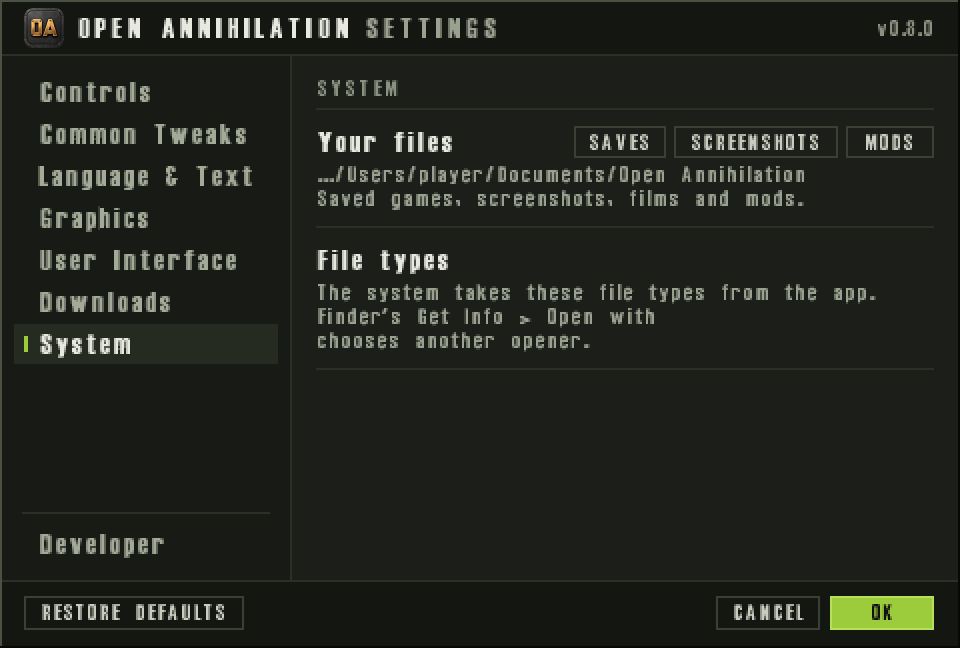
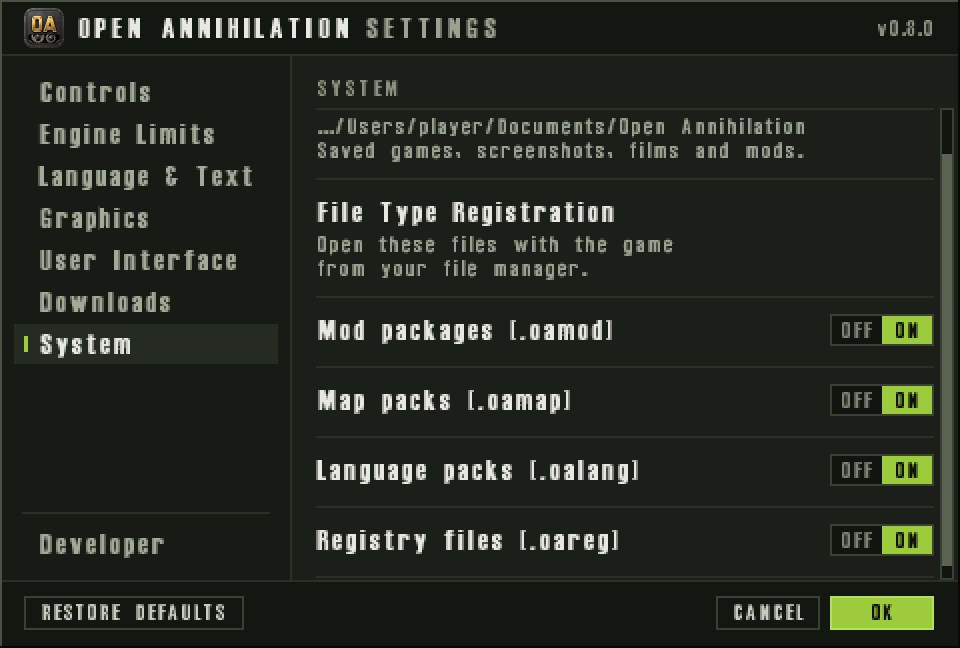
(fix) Set each macOS file-type opener with Launch Services

diff --git a/src/platform/file-types/src/file_types_mac.mm b/src/platform/file-types/src/file_types_mac.mm
@@ -2,24 +2,26 @@
 // SPDX-License-Identifier: GPL-3.0-only
 
 // macOS: whether this copy is the default opener of each file type, and making it so, or
-// handing the type back. macOS 12 and later names an application by its file URL. Before
-// that, the same questions take a bundle identifier. The bundle's declaration is left as
-// it is.
+// handing the type back. Both questions use Launch Services on every version. The calls are
+// deprecated and still present; this file is the only place that warning is accepted. The
+// bundle's declaration is left as it is. After a change the opener is read back, and a
+// change the read does not show is reported.
 
 #include "apple_handlers.hpp"
 
-#import <AppKit/AppKit.h>
 #import <CoreServices/CoreServices.h>
-#import <UniformTypeIdentifiers/UniformTypeIdentifiers.h>
+#import <Foundation/Foundation.h>
 
-#include <chrono>
 #include <string>
+
+// LSCopyDefaultRoleHandlerForContentType and LSSetDefaultRoleHandlerForContentType are
+// deprecated from macOS 12 and are the calls that answer at once. The replacement that
+// takes a completion handler does not finish when the opener would change.
+#pragma clang diagnostic push
+#pragma clang diagnostic ignored "-Wdeprecated-declarations"
 
 namespace oa::platform::file_types {
 namespace {
-
-/// How long a default-opener change may take to answer.
-constexpr std::chrono::seconds kAnswerLimit{5};
 
 /// A content type as Foundation holds a string that may not end in a zero.
 NSString* text_of(std::string_view text) {
@@ -36,118 +38,44 @@ std::string utf8_of(NSString* text) {
     return bytes == nullptr ? std::string{} : std::string(bytes);
 }
 
-/// The bundle identifier of the program at `url`.
-std::string bundle_id_of(NSURL* url) {
-    if (url == nil)
-        return {};
-    return utf8_of([NSBundle bundleWithURL:url].bundleIdentifier);
+/// Reports whether two bundle identifiers name the same program, ignoring ASCII case.
+bool same_bundle(std::string_view left, std::string_view right) noexcept {
+    if (left.size() != right.size())
+        return false;
+    const auto lower = [](unsigned char letter) noexcept {
+        return letter >= 'A' && letter <= 'Z' ? static_cast<char>(letter - 'A' + 'a')
+                                              : static_cast<char>(letter);
+    };
+    for (std::size_t index = 0; index < left.size(); ++index)
+        if (lower(static_cast<unsigned char>(left[index])) !=
+            lower(static_cast<unsigned char>(right[index])))
+            return false;
+    return true;
 }
 
-/// The default opener of `content_type`, on macOS 12 and later.
-API_AVAILABLE(macos(12.0))
-
-Handler opener_now(std::string_view content_type, std::string& failure) {
-    UTType* type = [UTType typeWithIdentifier:text_of(content_type)];
-    if (type == nil) {
-        failure = "unknown content type " + std::string(content_type);
-        return {};
-    }
-    NSURL* url = [[NSWorkspace sharedWorkspace] URLForApplicationToOpenContentType:type];
-    if (url == nil)
-        return {};
-    Handler handler;
-    handler.bundle_id = bundle_id_of(url);
-    handler.application_url = utf8_of(url.absoluteString);
-    return handler;
-}
-
-/// The default opener of `content_type`, before macOS 12.
-Handler opener_before(std::string_view content_type, std::string& failure) {
+/// The default opener of `content_type`. An empty handler with an empty `failure` means
+/// nothing is the opener.
+Handler opener_of(std::string_view content_type, std::string& failure) {
     NSString* identifier = text_of(content_type);
     if (identifier == nil) {
         failure = "unknown content type " + std::string(content_type);
         return {};
     }
-    Handler handler;
-#pragma clang diagnostic push
-#pragma clang diagnostic ignored "-Wdeprecated-declarations"
     CFStringRef owner =
         LSCopyDefaultRoleHandlerForContentType((__bridge CFStringRef)identifier, kLSRolesAll);
-#pragma clang diagnostic pop
     if (owner == nullptr)
         return {};
+    Handler handler;
     handler.bundle_id = utf8_of(CFBridgingRelease(owner));
     return handler;
 }
 
-/// Waits for `gate`, pumping the run loop when this is the main thread, so a completion
-/// that comes back there can run. Sets `failure` when the wait runs out.
-bool wait_for(dispatch_semaphore_t gate, std::string& failure) {
-    const auto deadline = std::chrono::steady_clock::now() + kAnswerLimit;
-    if ([NSThread isMainThread]) {
-        while (dispatch_semaphore_wait(gate, DISPATCH_TIME_NOW) != 0) {
-            if (std::chrono::steady_clock::now() >= deadline) {
-                failure = "the system did not answer";
-                return false;
-            }
-            [[NSRunLoop currentRunLoop] runMode:NSDefaultRunLoopMode
-                                     beforeDate:[NSDate dateWithTimeIntervalSinceNow:0.02]];
-        }
-        return true;
-    }
-    const auto left = deadline - std::chrono::steady_clock::now();
-    const auto nanoseconds = std::chrono::duration_cast<std::chrono::nanoseconds>(left).count();
-    if (nanoseconds <= 0 ||
-        dispatch_semaphore_wait(gate, dispatch_time(DISPATCH_TIME_NOW, nanoseconds)) != 0) {
-        failure = "the system did not answer";
-        return false;
-    }
-    return true;
+Handler read_handler(void* /*context*/, std::string_view content_type, std::string& failure) {
+    return opener_of(content_type, failure);
 }
 
-/// Makes `handler` the default opener of `content_type` on macOS 12 and later.
-API_AVAILABLE(macos(12.0))
-
-bool set_opener_now(std::string_view content_type, const Handler& handler, std::string& failure) {
-    UTType* type = [UTType typeWithIdentifier:text_of(content_type)];
-    if (type == nil) {
-        failure = "unknown content type " + std::string(content_type);
-        return false;
-    }
-    NSURL* url = nil;
-    if (!handler.application_url.empty())
-        url = [NSURL URLWithString:text_of(handler.application_url)];
-    if (url == nil && !handler.bundle_id.empty()) {
-        url = [[NSWorkspace sharedWorkspace]
-            URLForApplicationWithBundleIdentifier:text_of(handler.bundle_id)];
-    }
-    if (url == nil) {
-        failure = "no program opens " + std::string(content_type);
-        return false;
-    }
-    __block NSString* message = nil;
-    dispatch_semaphore_t gate = dispatch_semaphore_create(0);
-    [[NSWorkspace sharedWorkspace] setDefaultApplicationAtURL:url
-                                            toOpenContentType:type
-                                            completionHandler:^(NSError* problem) {
-                                                if (problem != nil)
-                                                    message = problem.localizedDescription;
-                                                dispatch_semaphore_signal(gate);
-                                            }];
-    if (!wait_for(gate, failure))
-        return false;
-    if (message != nil) {
-        failure = utf8_of(message);
-        if (failure.empty())
-            failure = "the system refused";
-        return false;
-    }
-    return true;
-}
-
-/// Makes `handler` the default opener of `content_type` before macOS 12.
-bool set_opener_before(
-    std::string_view content_type, const Handler& handler, std::string& failure
+bool write_handler(
+    void* /*context*/, std::string_view content_type, const Handler& handler, std::string& failure
 ) {
     if (handler.bundle_id.empty()) {
         failure = "no program opens " + std::string(content_type);
@@ -159,31 +87,23 @@ bool set_opener_before(
         failure = "unknown content type " + std::string(content_type);
         return false;
     }
-#pragma clang diagnostic push
-#pragma clang diagnostic ignored "-Wdeprecated-declarations"
     const OSStatus status = LSSetDefaultRoleHandlerForContentType(
         (__bridge CFStringRef)identifier, kLSRolesAll, (__bridge CFStringRef)owner
     );
-#pragma clang diagnostic pop
     if (status != noErr) {
         failure = "the system refused (" + std::to_string(static_cast<int>(status)) + ")";
         return false;
     }
+    // The call answers at once. The opener afterwards is what a read reports, and a set
+    // the read does not show did not take.
+    const Handler now = opener_of(content_type, failure);
+    if (!failure.empty())
+        return false;
+    if (!same_bundle(now.bundle_id, handler.bundle_id)) {
+        failure = "the change did not take";
+        return false;
+    }
     return true;
-}
-
-Handler read_handler(void* /*context*/, std::string_view content_type, std::string& failure) {
-    if (@available(macOS 12.0, *))
-        return opener_now(content_type, failure);
-    return opener_before(content_type, failure);
-}
-
-bool write_handler(
-    void* /*context*/, std::string_view content_type, const Handler& handler, std::string& failure
-) {
-    if (@available(macOS 12.0, *))
-        return set_opener_now(content_type, handler, failure);
-    return set_opener_before(content_type, handler, failure);
 }
 
 } // namespace
@@ -212,3 +132,5 @@ Handler apple_running_application() {
 }
 
 } // namespace oa::platform::file_types
+
+#pragma clang diagnostic pop

diff --git a/src/platform/file-types/tests/file_types_test.cpp b/src/platform/file-types/tests/file_types_test.cpp
@@ -865,6 +865,7 @@ struct FakeLaunchServices {
     std::map<std::string, file_types::Handler> handlers{};
     std::string fail_read{};  ///< a content type whose question fails
     std::string fail_write{}; ///< a content type whose change fails
+    bool store_writes = true; ///< a change that answers and leaves the opener as it was
     std::vector<std::string> reads{};
     std::vector<std::pair<std::string, std::string>> writes{};
 };
@@ -895,8 +896,9 @@ bool fake_write(
         failure = "sandbox";
         return false;
     }
-    fake->handlers[type] = handler;
     fake->writes.emplace_back(type, handler.bundle_id);
+    if (fake->store_writes)
+        fake->handlers[type] = handler;
     return true;
 }
 
@@ -961,9 +963,12 @@ void test_opener_changes() {
     OA_CHECK(handed.lines.size() == 2);
     OA_CHECK(handed.lines[0] == "hand back oamod to com.example.archive");
     OA_CHECK(handed.lines[1] == "hand back oareg to com.example.editor");
-    OA_CHECK(fake.reads.size() == 2);
+    // Each type asks for the opener it hands back to, then reads its own opener afterwards.
+    OA_CHECK(fake.reads.size() == 4);
     OA_CHECK(fake.reads[0] == "public.zip-archive");
-    OA_CHECK(fake.reads[1] == "public.plain-text");
+    OA_CHECK(fake.reads[1] == "net.coreprime.open-annihilation.oamod");
+    OA_CHECK(fake.reads[2] == "public.plain-text");
+    OA_CHECK(fake.reads[3] == "net.coreprime.open-annihilation.oareg");
     OA_CHECK(
         fake.handlers["net.coreprime.open-annihilation.oamod"].bundle_id == "com.example.archive"
     );
@@ -985,7 +990,9 @@ void test_opener_changes() {
         file_types::apply_opener_changes(fake_calls(fake), application, on);
     OA_CHECK(taken.changed && taken.error.empty());
     OA_CHECK(taken.lines.size() == 1 && taken.lines[0] == "open oamod");
-    OA_CHECK(fake.reads.empty());
+    // On does not look up a zip or text opener. It reads this type back after the set.
+    OA_CHECK(fake.reads.size() == 1);
+    OA_CHECK(fake.reads[0] == "net.coreprime.open-annihilation.oamod");
     OA_CHECK(
         fake.handlers["net.coreprime.open-annihilation.oamod"].bundle_id == application.bundle_id
     );
@@ -1011,6 +1018,17 @@ void test_opener_changes() {
         file_types::apply_opener_changes(fake_calls(fake), application, on);
     OA_CHECK(!refused.changed);
     OA_CHECK(refused.error.find("oamod: sandbox") != std::string::npos);
+    fake.fail_write.clear();
+
+    // A set that answers and leaves another opener is logged and is not counted.
+    fake.handlers["net.coreprime.open-annihilation.oamod"] = archive;
+    fake.store_writes = false;
+    const file_types::Registration ignored =
+        file_types::apply_opener_changes(fake_calls(fake), application, on);
+    OA_CHECK(!ignored.changed && ignored.lines.empty());
+    OA_CHECK(ignored.error.find("oamod: the change did not take") != std::string::npos);
+    OA_CHECK(fake.handlers["net.coreprime.open-annihilation.oamod"].bundle_id == archive.bundle_id);
+    fake.store_writes = true;
 
     const file_types::OpenerChange unknown[] = {{"zip", true}};
     const file_types::Registration other =

diff --git a/src/platform/file-types/src/file_types.cpp b/src/platform/file-types/src/file_types.cpp
@@ -343,30 +343,36 @@ Registration apply_opener_changes(
             continue;
         }
         const std::string extension(type->extension);
-        if (change.open) {
+        // A set is kept only when the opener read afterwards is the one asked for. The
+        // switch is drawn from that read, and a change that did not take is logged.
+        const auto kept = [&](const Handler& asked, std::string success) {
             std::string failure;
-            if (!calls.set_handler(calls.context, type->content_type, application, failure)) {
+            if (!calls.set_handler(calls.context, type->content_type, asked, failure)) {
                 add_failure(done.error, extension + ": " + failure);
-                continue;
+                return;
+            }
+            const Handler now = calls.default_handler(calls.context, type->content_type, failure);
+            if (!failure.empty() || !same_bundle(now.bundle_id, asked.bundle_id)) {
+                add_failure(done.error, extension + ": the change did not take");
+                return;
             }
             done.changed = true;
-            done.lines.emplace_back("open " + extension);
+            done.lines.emplace_back(std::move(success));
+        };
+        if (change.open) {
+            kept(application, "open " + extension);
             continue;
         }
-        std::string failure;
-        const Handler handed = calls.default_handler(calls.context, type->hands_back_to, failure);
-        if (!failure.empty() || handler_name(handed).empty()) {
-            if (failure.empty())
-                failure = "nothing opens " + std::string(type->hands_back_to);
-            add_failure(done.error, extension + ": " + failure);
+        std::string parent_failure;
+        const Handler handed =
+            calls.default_handler(calls.context, type->hands_back_to, parent_failure);
+        if (!parent_failure.empty() || handler_name(handed).empty()) {
+            if (parent_failure.empty())
+                parent_failure = "nothing opens " + std::string(type->hands_back_to);
+            add_failure(done.error, extension + ": " + parent_failure);
             continue;
         }
-        if (!calls.set_handler(calls.context, type->content_type, handed, failure)) {
-            add_failure(done.error, extension + ": " + failure);
-            continue;
-        }
-        done.changed = true;
-        done.lines.emplace_back("hand back " + extension + " to " + handler_name(handed));
+        kept(handed, "hand back " + extension + " to " + handler_name(handed));
     }
     return done;
 }

diff --git a/src/platform/file-types/README.md b/src/platform/file-types/README.md
@@ -155,14 +155,15 @@ remove one. It chooses the default opener.
 | `.oamod`, `.oalang`, `.oamap` | this copy opens that exported type | the default opener of `public.zip-archive` |
 | `.oareg` | this copy opens that exported type | the default opener of `public.plain-text` |
 
-On macOS 12 and later the change is
-`setDefaultApplicationAtURL:toOpenContentType:completionHandler:`, and the
-opener handed back is the one
-`URLForApplicationToOpenContentType:` names. Before that, both questions
-use `LSSetDefaultRoleHandlerForContentType` and
-`LSCopyDefaultRoleHandlerForContentType`. A switch shows on when the
-default opener's bundle identifier is this copy's. A question that fails
-is logged, that switch is left as it was, and the others are still asked.
+On every macOS version both questions use
+`LSSetDefaultRoleHandlerForContentType` and
+`LSCopyDefaultRoleHandlerForContentType`. Those calls are deprecated and
+still answer at once; the deprecation warning is accepted only in
+`file_types_mac.mm`. After a change the opener is read back. A change that
+read does not show is logged (`the change did not take`) and is not
+counted as done. A switch shows on when the default opener's bundle
+identifier is this copy's. A question that fails is logged, that switch
+is left as it was, and the others are still asked.
 Nothing here runs at start: a choice made in Finder stays until a switch
 moves and OK is pressed. A copy that is not an application bundle asks
 nothing. iOS has no such questions, and System keeps the text row.
@@ -171,10 +172,12 @@ nothing. iOS has no such questions, and System keeps the text row.
 
 `platform-file-types` checks the texts on every system, and the
 default-opener questions against a stand-in: a switch that is on asks for
-this copy and does not look up a zip or text opener, a switch that is off
-asks for that opener and sets it on the exported type, a type that did not
-move is not asked, a failed question is reported and does not stop the
-others, and a system with no questions skips. Elsewhere than on
+this copy and does not look up a zip or text opener, then reads the opener
+back; a switch that is off asks for that opener, sets it on the exported
+type and reads it back; a set the read does not show is logged and is not
+counted; a type that did not move is not asked, a failed question is
+reported and does not stop the others, and a system with no questions
+skips. Elsewhere than on
 Windows it registers into a scratch data folder, with three recording
 scripts standing in for the tools on a scratch `PATH`, given two minutes
 each so that a loaded machine never stops them: the five icon files, the

diff --git a/docs/settings.md b/docs/settings.md
@@ -629,7 +629,7 @@ check and the install-ID switch can still change.
 
 ## System
 
-![The System section: Your files showing the Open Annihilation folder with its SAVES, SCREENSHOTS and MODS buttons. This picture is from before macOS listed a switch for each file type.](images/settings/system.png)
+![The System section: the Open Annihilation folder's path, then File Type Registration with a switch for mod packages, map packs, language packs and registry files.](images/settings/system.png)
 
 System is where the game sits on your computer: your own folder, and which
 of the game's file types this copy opens.
